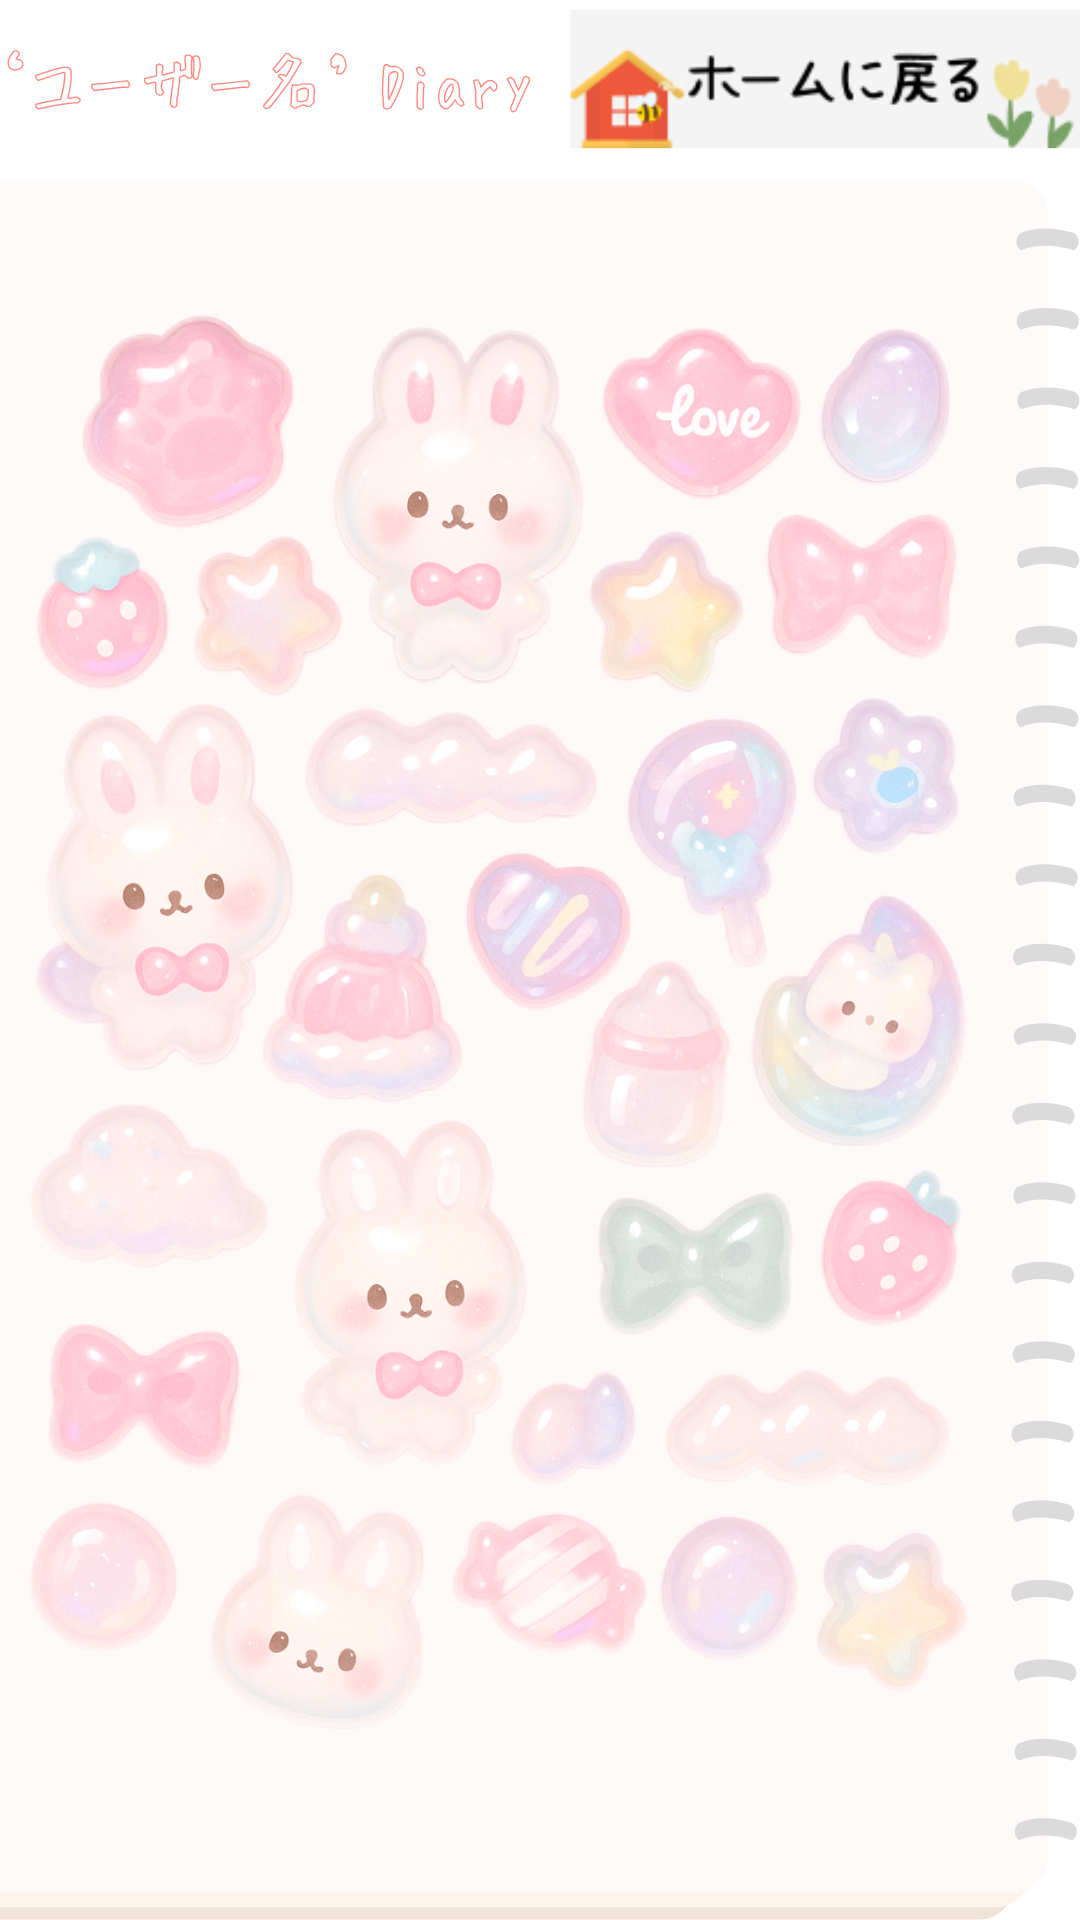
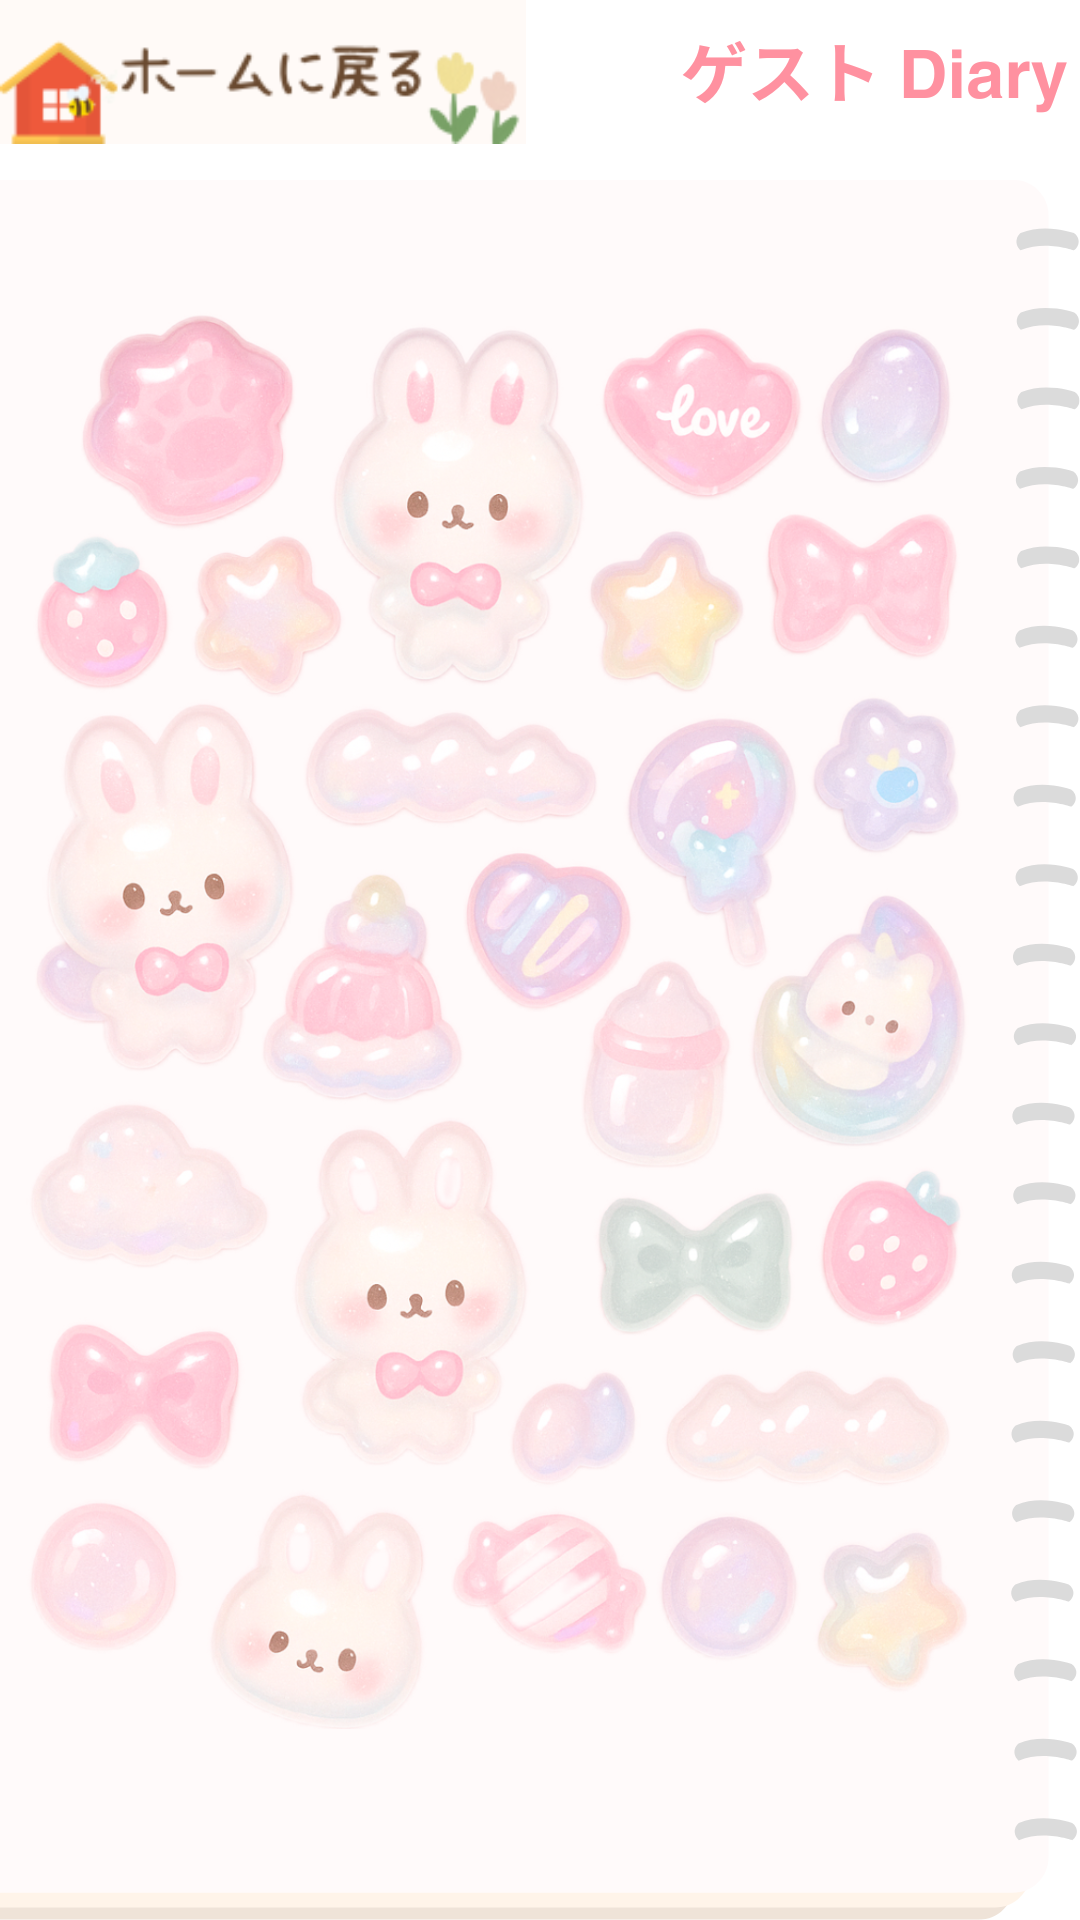
フォーム、テンプレート、画像を更新

Changed region(s): [[0.5194, 0.0, 1.0, 0.0938], [0.0, 0.0, 0.4889, 0.0938]]

diff --git a/diary/templates/diary/diary_create.html b/diary/templates/diary/diary_create.html
@@ -6,6 +6,7 @@
 <meta name="viewport" content="width=device-width, initial-scale=1.0">
 <title>音声日記を作成</title>
 <style>
+  
   body {
     font-family: 'Helvetica Neue', sans-serif;
     background-color: #fffaf7;
@@ -77,6 +78,8 @@
     border: 1.5px solid #ffc0cb;
     font-size: 16px;
   }
+
+  
 
   /* 📤 投稿ボタン（画像） */
   .submit-btn {

diff --git a/diary/templates/diary/sticker_page.html b/diary/templates/diary/sticker_page.html
@@ -14,7 +14,7 @@
       display: flex;
       justify-content: center;
       align-items: center;
-      background-color: #fffaf7;
+      background-color: #ffe6ea;
     }
 
     img.fullscreen {

diff --git a/diary/forms.py b/diary/forms.py
@@ -7,6 +7,13 @@ class AudioDiaryForm(forms.ModelForm):
     class Meta:
         model = AudioDiary
         fields = ['title', 'mood', 'emoji', 'color', 'audio_file', 'text_entry', 'image']
+        widgets = {
+            'color': forms.TextInput(attrs={
+                'type': 'color',
+                'style': 'width: 60px; height: 40px; padding: 0; border: none;'
+            })
+        }
+
 
 
 # 👤 プロフィール編集フォーム（旧 UserProfileForm）
@@ -14,4 +21,3 @@ class ProfileForm(forms.ModelForm):
     class Meta:
         model = Profile
         fields = ['icon', 'username', 'status_message']
-
